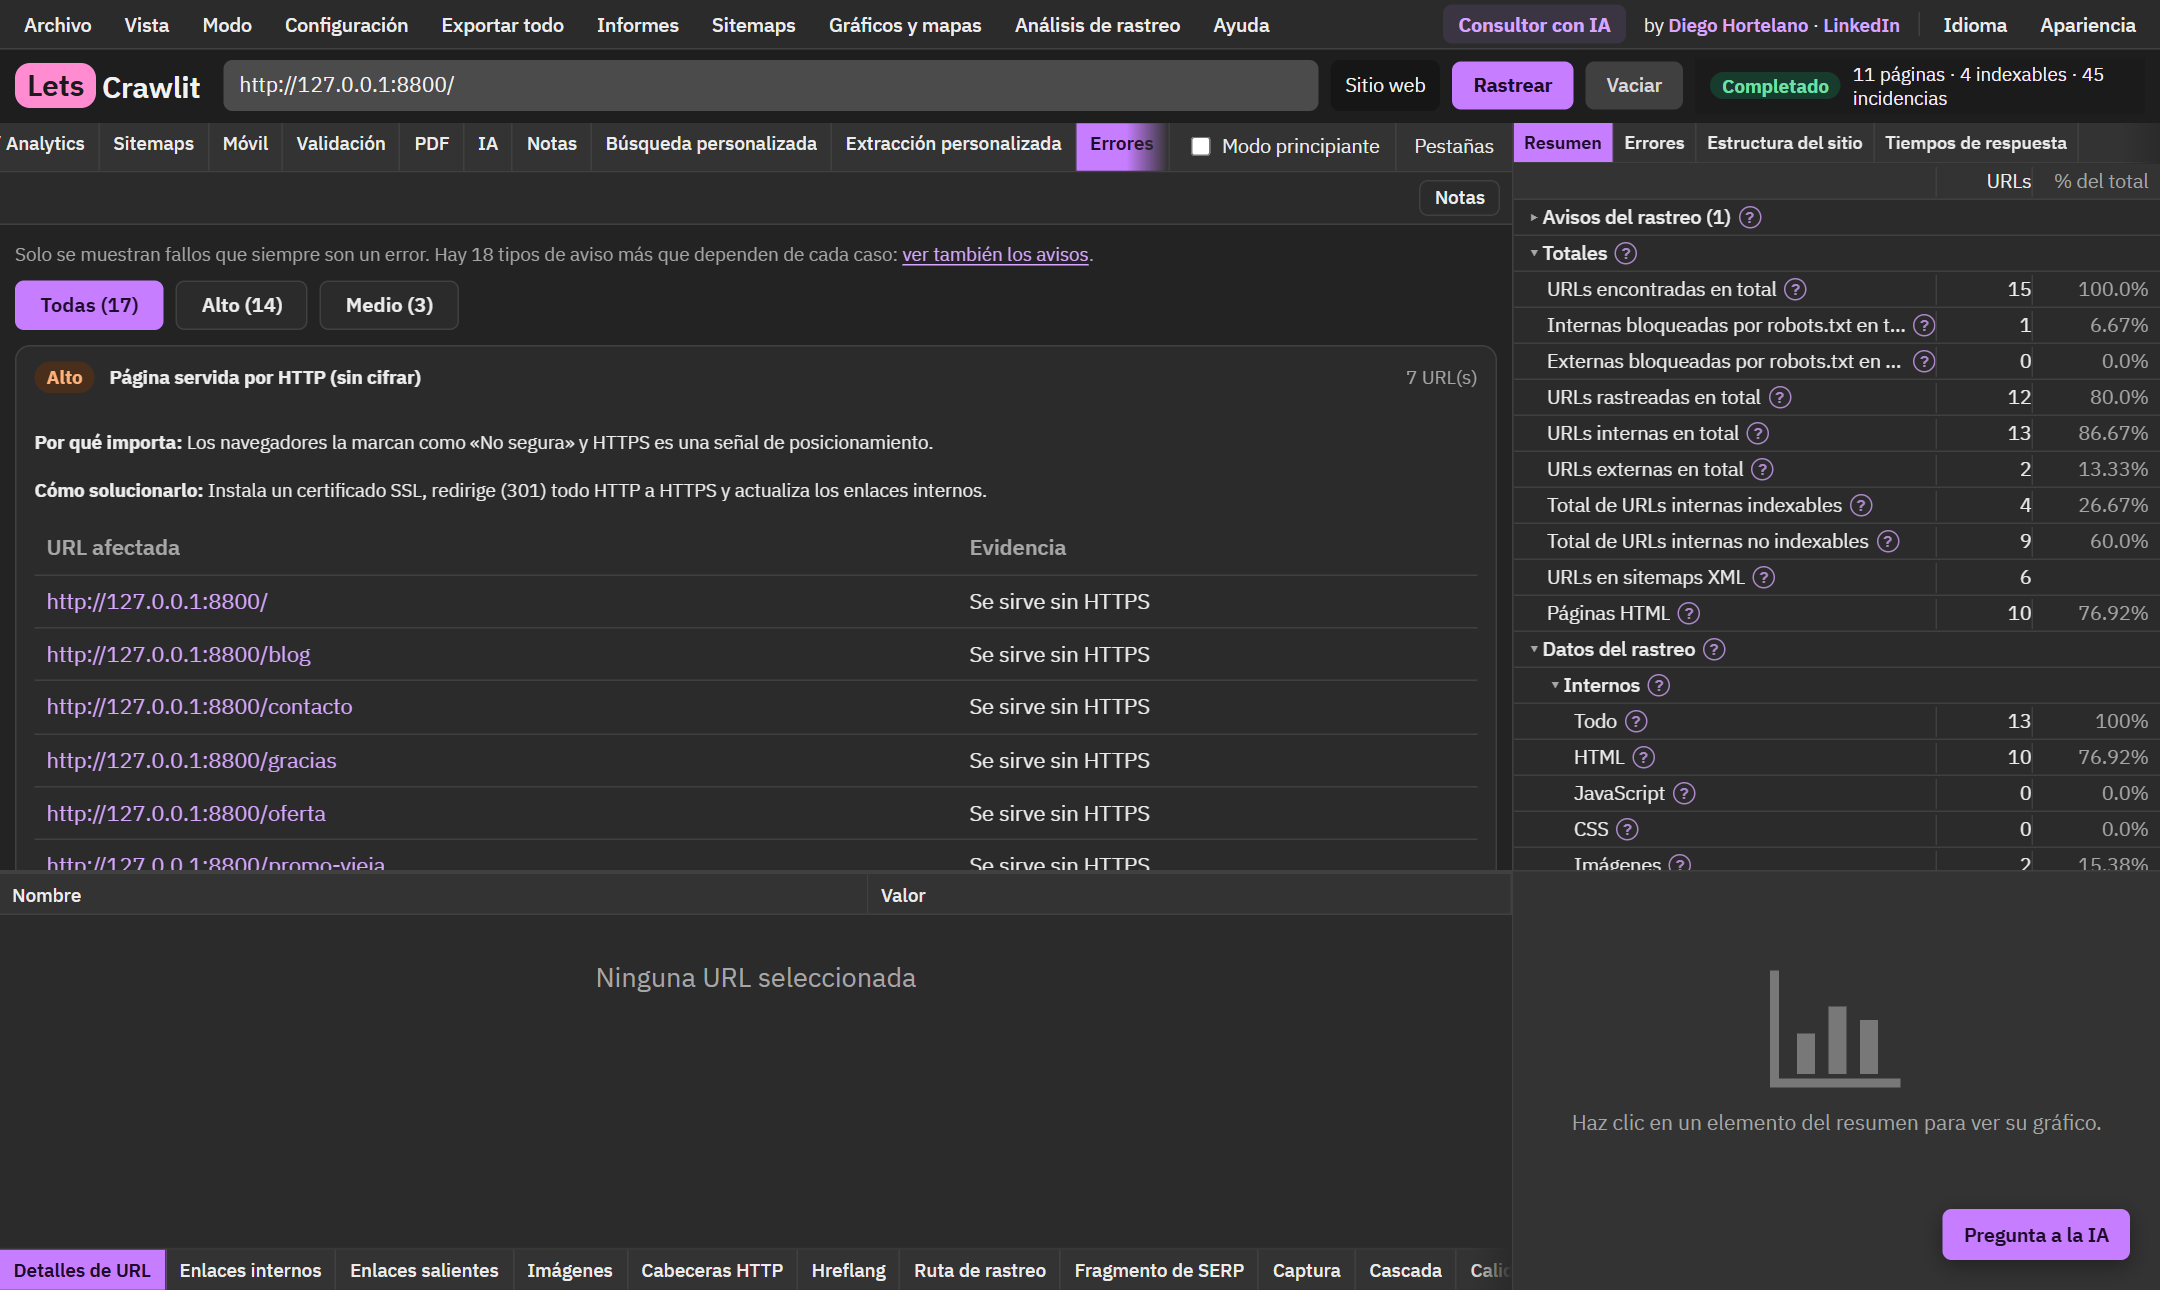
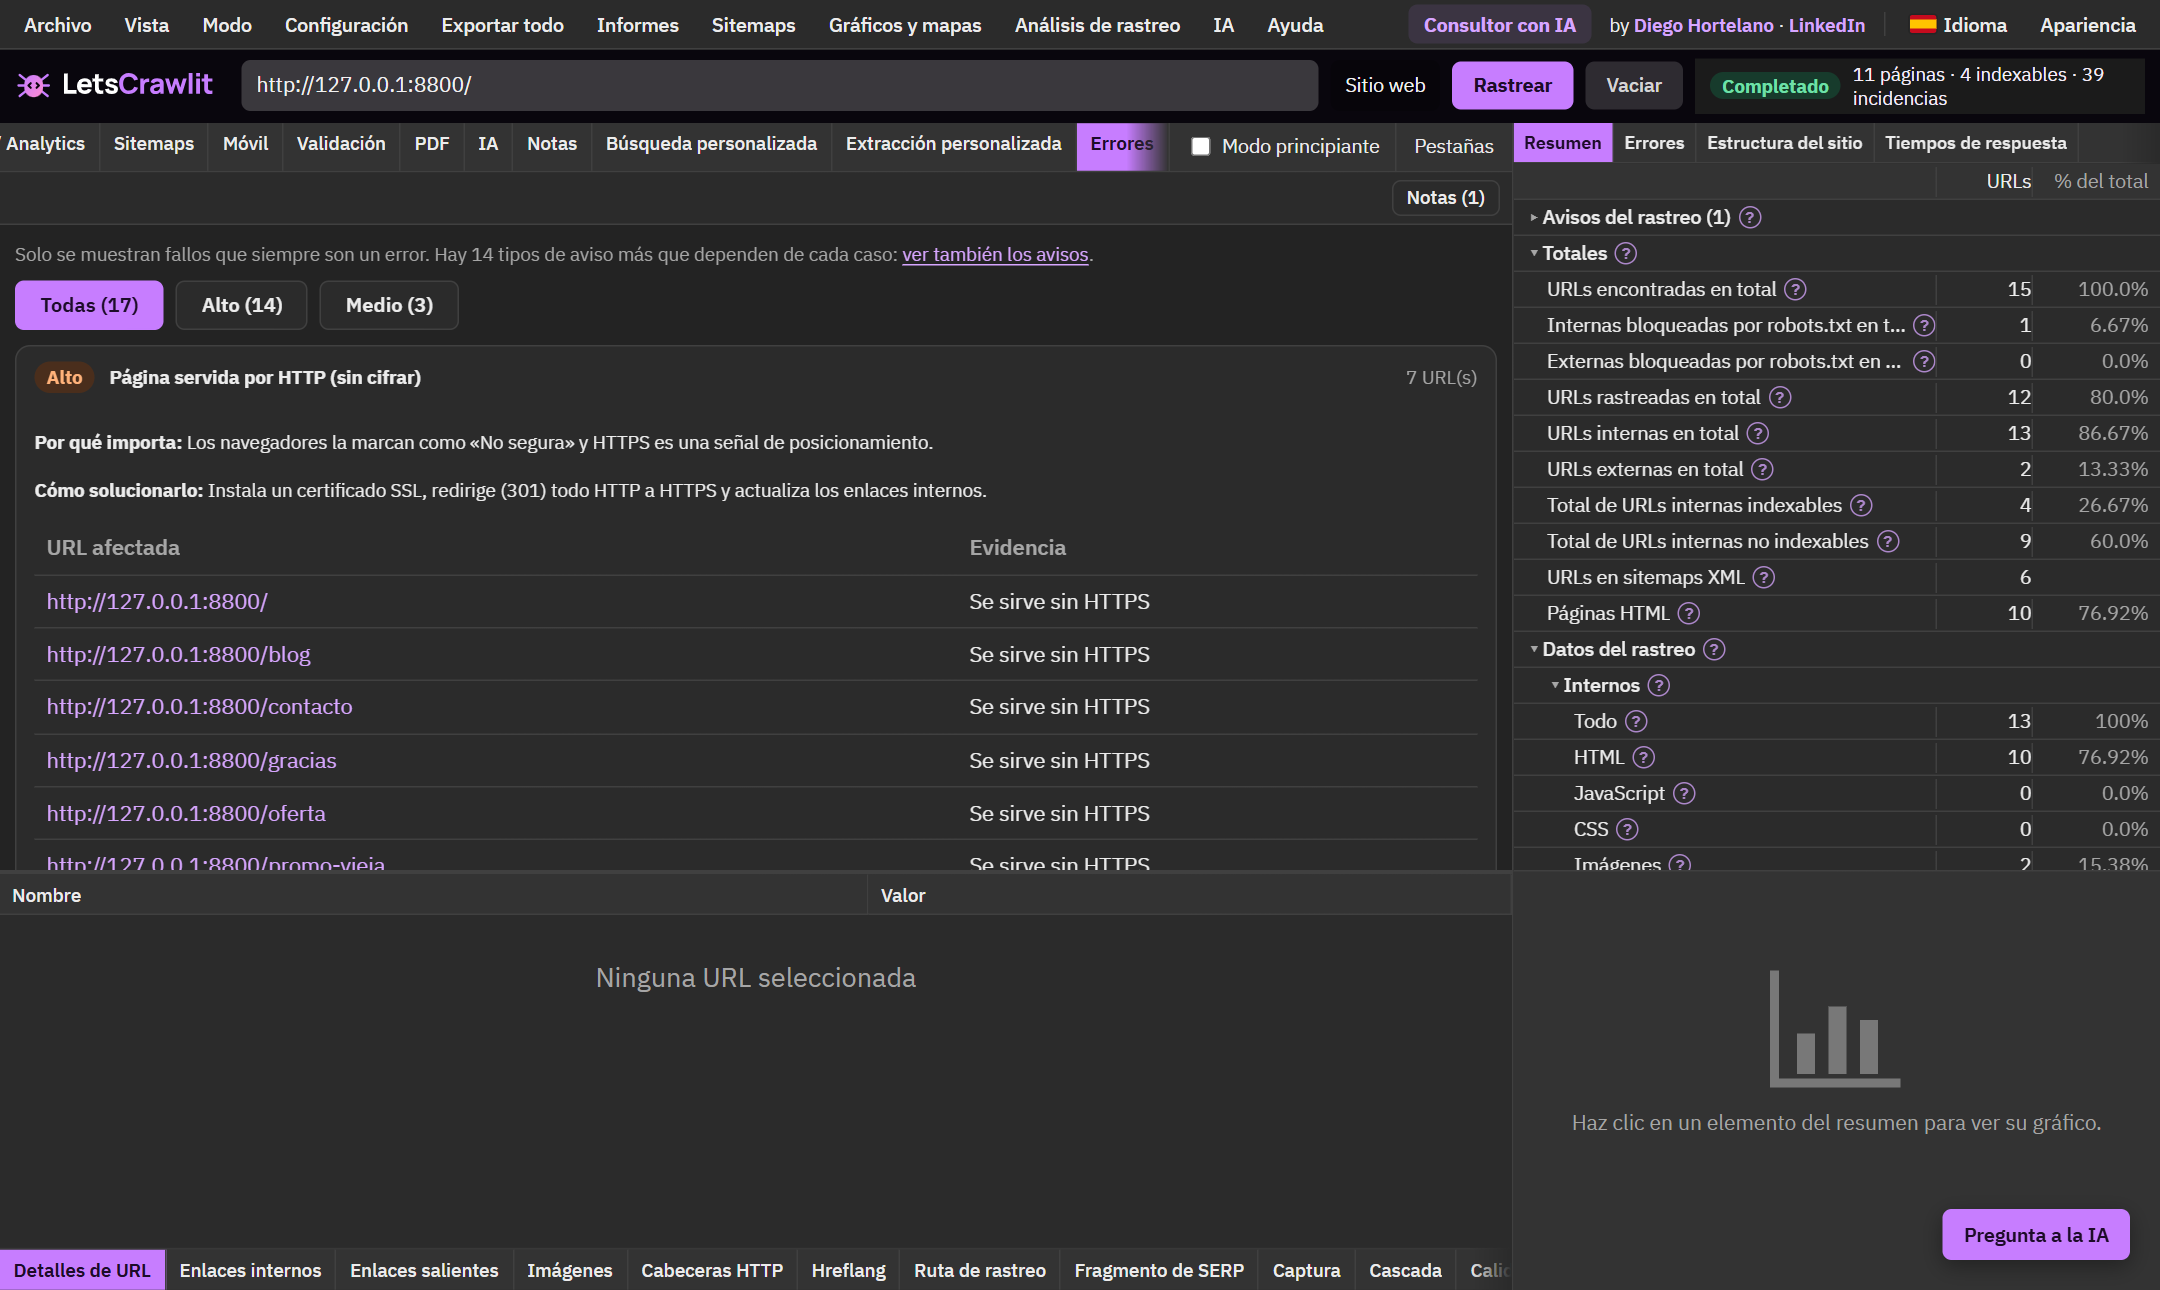
Capturas actualizadas a la versión actual
- Rehechas las 5 capturas del README con el logo, los menús y los textos actuales (Anotar, menú IA).
- Nuevas: pestaña IA con propuestas reales de title, description y JSON-LD, ventana Anotar y ficha de cliente.

diff --git a/README.md b/README.md
@@ -66,8 +66,13 @@ Cuando haya una versión nueva, la app te lo dirá con un aviso. Para actualizar
 | <img src="docs/img/inicio.png" alt="Pantalla de inicio: ¿Qué quieres revisar?" width="440"> | <img src="docs/img/errores.png" alt="Lista de errores con explicación" width="440"> |
 | **Modo claro** | **Informe para el cliente** |
 | <img src="docs/img/claro.png" alt="LetsCrawlit en modo claro" width="440"> | <img src="docs/img/informe.png" alt="Informe para el cliente en lenguaje sencillo" width="440"> |
+| **La IA propone title, description y datos estructurados** | **Anotar varias URLs a la vez** |
+| <img src="docs/img/ia.png" alt="Pestaña IA: title y description actuales junto a los propuestos, y la propuesta completa con botones de copiar" width="440"> | <img src="docs/img/anotar.png" alt="Ventana Anotar: los problemas que comparten las URLs elegidas, con su gravedad, y frases rápidas" width="440"> |
+| **Ficha de cliente para la IA** | |
+| <img src="docs/img/cliente.png" alt="Ficha de cliente: identidad, voz y estilo, y contexto del negocio" width="440"> | |
 
-Las capturas son de una web de prueba local con errores a propósito (`extras/demo/demo_site.py`).
+Las capturas son de una web de prueba local con errores a propósito (`extras/demo/demo_site.py`). Las propuestas
+de la IA son reales (Groq, `openai/gpt-oss-20b`) con la ficha de cliente de la captura.
 
 ## Guías
 
